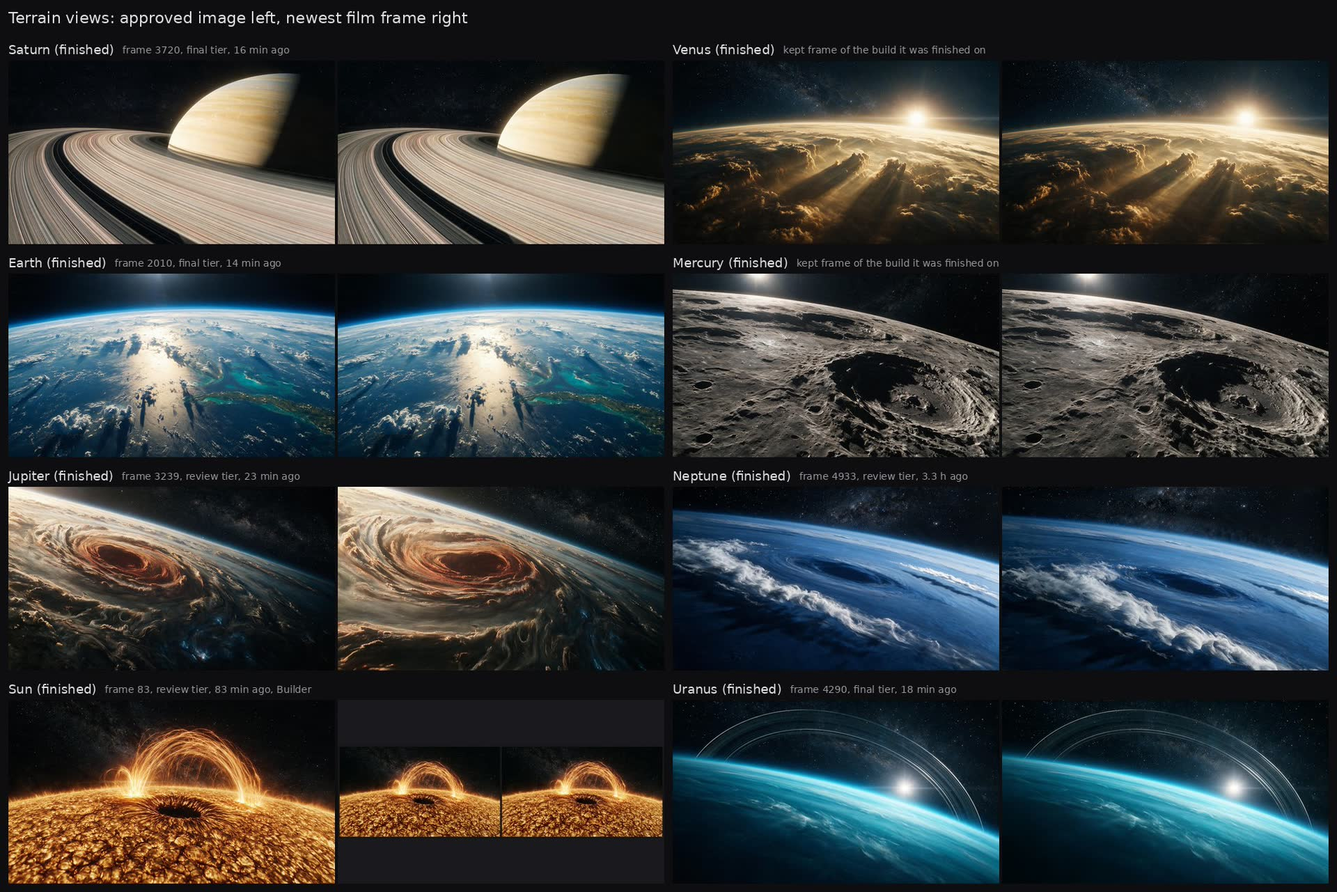
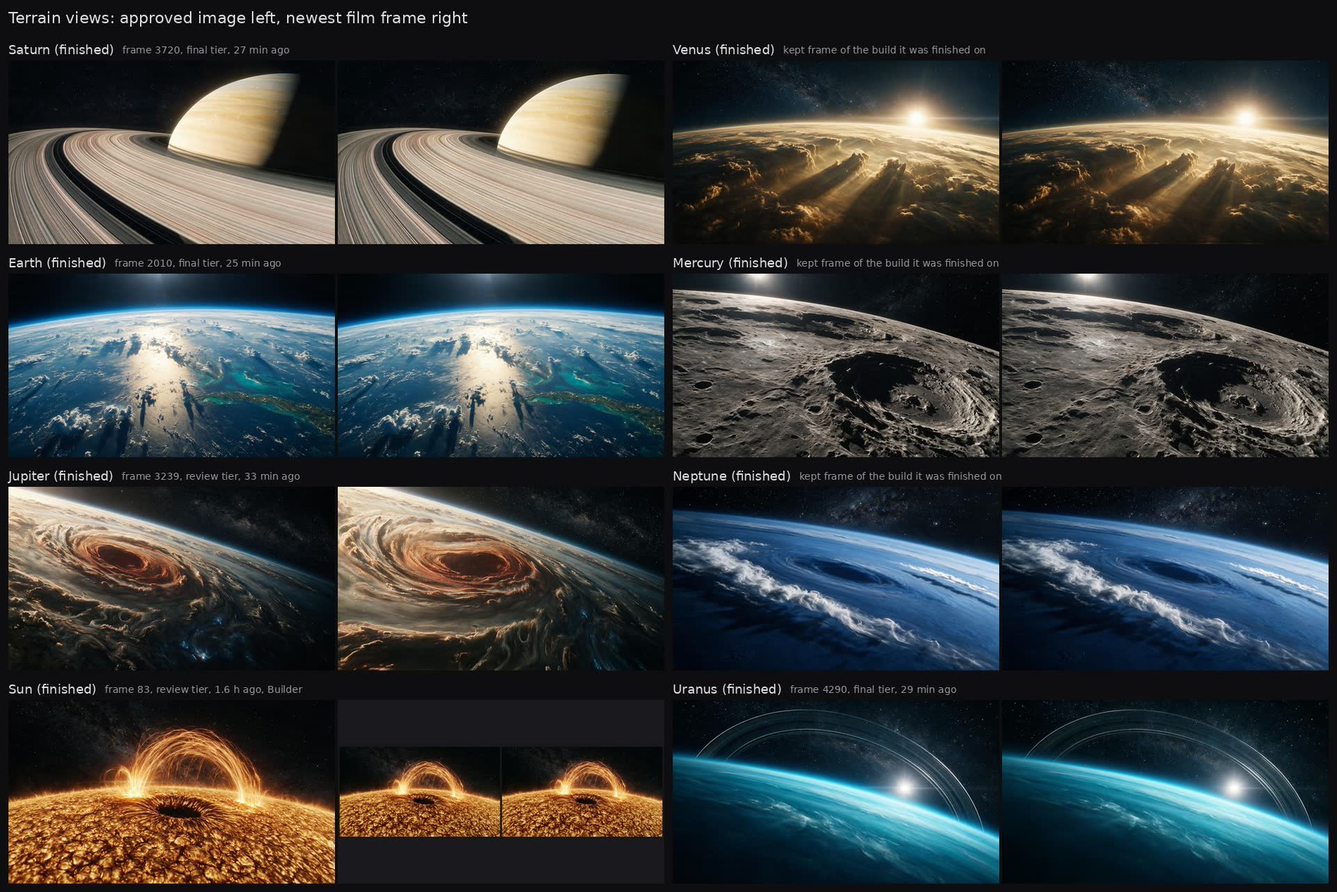
Status: Phase 6, polish round 33 (1 of 3) is closed with 95 answers: 13 severe a

Changed region(s): [[0.75, 0.5308, 1.0, 0.7494], [0.5938, 0.5308, 0.75, 0.5621], [0.1875, 0.7494, 0.2188, 0.7806]]

diff --git a/kit/PROGRESS.md b/kit/PROGRESS.md
@@ -5,8 +5,8 @@ The Builder's memory. Read this first in every task. Update it before every comm
 ## Status
 
 - Current phase: 6 · Polish and deliver
-- Current stop: none. All nine stops are finished (Phase 4 gate, 00:52 UTC on 2026-11-22). Phase 5 is done: its three whole film rounds 30, 31 and 32 ran to the limit of three, round 32 closed at 11:55 UTC and its build is kept as the best of the three (main 4365a0f0, engine hash be043ade04a7ab6e: R5 7, R6 6, R7 6, R2 pass, R3 4, R4 6; 1 severe and 21 major, written under open items 79 to 100), and the Phase 5 gate held at 12:23 UTC with the preview film of that build in `out/preview.mp4`. Phase 6 step 1 runs: three polish rounds (33, 34, 35) on the open items, worst first, each judged only on the frames its batch touched. Round 33 was cut at 13:02 UTC and its critics leave in waves from about 14:20 UTC as its renders come back; the cut of round 34 is about 40 minutes after round 33 closes (about 16:15 UTC); then the freeze, the record round, the sandbox master, the nine clips, the nine posts and the gauntlet
-- Current round: open: 33 (polish). The next round is 34. Round numbers are global; rounds of different stops run at the same time, each written here when it starts
+- Current stop: none. All nine stops are finished (Phase 4 gate, 00:52 UTC on 2026-11-22). Phase 5 is done: its three whole film rounds 30, 31 and 32 ran to the limit of three, round 32 closed at 11:55 UTC and its build is kept as the best of the three (main 4365a0f0, engine hash be043ade04a7ab6e: R5 7, R6 6, R7 6, R2 pass, R3 4, R4 6; 1 severe and 21 major, written under open items 79 to 100), and the Phase 5 gate held at 12:23 UTC with the preview film of that build in `out/preview.mp4`. Phase 6 step 1 runs: three polish rounds (33, 34, 35) on the open items, worst first, each judged only on the frames its batch touched. Round 33 closed at 15:26 UTC with 95 answers (13 severe, 97 major; motion better at Jupiter, Saturn, Mercury, Neptune and the Sun, so its build is the base of round 34). Round 34 is cut at 16:20 UTC from the agents' offers, each proved before it lands; round 35 takes only small proven things and take outs; then the freeze, the record round, the sandbox master, the nine clips, the nine posts and the gauntlet
+- Current round: open: none. The next round is 34. Round numbers are global; rounds of different stops run at the same time, each written here when it starts
 - Next critic name: reviewer_1219
 - Blocked: no
 - App URL: https://grand-tour-film.pplx.app (review page: https://grand-tour-film.pplx.app/review.html). Visibility is set to Organization, so it asks for a sign-in. Site id 658cdf8a-abd6-46bd-a3ba-e37d5c3ba5a3. Private preview of the same build: https://www.perplexity.ai/computer/a/grand-tour-.DP5zrWnQuWx5hYYutNNyA
@@ -710,6 +710,23 @@ Round 5 left these open (open items 6 to 15 hold the critics' words). Each of th
 - 14:03 UTC, the R8 and R2 folders are packed in exactly one wave, so that every namer and juror sees the same file under the same name; the join of the waves refuses a folder or a key entry that differs between two waves. The controls of R2 and R8 are not judged again: `pack --controls-from 30` reuses the control votes of round 30, as rounds 31 and 32 did (kit: a control's votes are collected once per stop and reused).
 - 14:03 UTC, `neptune.travel` taken out of the list of film sheets in my wave helper: Neptune has no travel segment, the ending follows its rise.
 - 14:13 UTC, sheets of round 33 looked at beside the kept build as they arrive, none worse: Earth dive cover (the first frames 1879 to 1881 are now a full frame of cloud before the limb comes in at 1881, the end of the cover at 1887 to 1890 resolves into cloud cells where the kept build stayed smeared), Uranus rise cover (the kept build stayed in teal haze to 4416, the new one clears to the limb, the Sun point and the band of the sky by 4410), Neptune rise (limb at 4984 and 4990 before the whole globe, the kept build cut from blur to the globe), Neptune rise cover (no kept sheet; terrain, streaked cloud, limb), Jupiter dive cover (same picture, slightly less red in 3019 to 3021).
+- 2026-11-22 14:38 UTC, Phase 6 round 33, a critic's claim checked before it is acted on. The compression critic (part 3) wrote of `mars.dive` frame 2434 that the frame before the encode is blurred by motion and the encoded one is not. Measured at native size on the two stills of the stress run: PSNR 35.36 dB, mean Laplacian on the disc 8.755 before and 8.671 after, so both show the same blur and the pair is like for like. Not confirmed and not sent as a fix. What is real in the same card: the leftmost 25 columns of the encoded frame lose horizontal detail (mean horizontal gradient 1.92 in columns 0 to 25 against 2.89 in columns 25 to 50; before the encode 3.81 against 3.65). That is the stress encoder's own loss at the picture's edge; item 86 stays held, since Mars is approved and a gentler stress encode would lower the bar.
+- 2026-11-22 14:40 UTC, Phase 6 round 33, Mars. Its scores are R1 7 (the approved build had 7), R3 6 (5) and R4 5 (6), from critics of other families than round 5 had. Nothing in Mars's folders changed: the dive cover and terrain sheets are the kept build's bytes, the hold sheet differs in 0.07 percent of its pixels and the dive sheet in 0.06 percent, all of it sky. No addendum asks for a change to Mars, so no round is run on it and its words are logged under the open items. The moon's exit at 2408 to 2424 (item 14, a minor in round 5) is a severe in this critic's words.
+- 2026-11-22 14:43 UTC, Phase 6 round 33, the Sun's match score. R1 gave 6 (the finished Sun had 9) with two severe on the close image's lower right ("a different draw") and majors on a hot rim at the hold's lower limb. Measured on the final stills: the luminance correlation of the named tile (crop 1212,594) with the approved close image is 0.53 in the kept build of round 32 and 0.53 in round 33 (0.90 and 0.90 after a 15 px blur), the tile beside it 0.74 and 0.74; the hold's tile means are 84.0 approved, 83.9 kept, 83.8 round 33 and 136.1, 136.6, 136.5. Kept against round 33: 2.87 levels mean difference on frame 90 and 2.53 on frame 360. So the places the critic names are the same picture as the kept build, which round 24's critic passed at 9. The drop is a second reading of the same surface, not a change of round 33, and there is nothing to take out. The words went to the Sun agent and stand under a new open item.
+- 2026-11-22 14:44 UTC, Phase 6 round 33, Jupiter. R4 gave 9 with one minor (the finished stop had 5 with a major on the start of the dive). The dive trial 73e6756d (plunge power 8, lead 0.48) is not taken: the dive as merged drew no word, and a second change could only lose the 9. R1 gave 9 against the finished stop's 10: the hold 2895 changed by one key (`look.edge.low`, the south limb) and the cloud deck 3150 by fold detail in `deck-core.jpg`. By the rule of 12:28 both are taken out again for round 34 (the Jupiter agent's CUT34: 2895 back to the kept build's bytes, to be proved by the Builder's own hash; crop D mean difference to the approved image 3.591 kept, 4.468 round 33, 3.619 after the take out), and the motion work, the foreground tiers, Io's night fill and both covers stay.
+- 2026-11-22 14:44 UTC, Phase 6 round 33, R8 in a polish round. `pack --controls-from 30` skips the approved images, and round 30 (a whole film round) holds no R8 control votes, so `close` would have compared every stop with 0 of 0. The kit collects a control's votes once per stop, and each stop's R8 control was judged in its first stop round (3 Mars, 6 Uranus, 7 Mercury, 8 Jupiter, 9 Neptune, 10 Sun, 11 Earth, 12 Venus, 13 Saturn). The harness agent changed `close` to take them from there (`agent/harness-r8` a4ac1e71, merged 14:56 UTC; checked by the Builder: three control lines per stop, Mars's control named by 1 of 3, the other eight by 3 of 3). This overrides the note of 13:20 UTC that the controls would be judged again in round 33: they were not, and no approved image was shown to a juror in this round. All 27 namers of round 33 named their stop except one at Mars who wrote Phobos (2 of 3 against the control's 1 of 3).
+- 2026-11-22 14:45 UTC, Phase 6 round 33, the jury. Venus drew 4 of 10 votes for a film or game cinematic (hold b a d a d, terrain a d d d a) where the kept build drew 0 of 10; against the stop's own control share of 5 of 10 (round 12) and the allowed gap of 0.2 that passes. Saturn drew 1 of 10 (hold b b e d b, terrain b a e b b; the kept build 2 of 10, round 20's build 3 of 10) and fails against the stop's own control share of 5 of 10 (round 13), which counts as one major.
+- 2026-11-22 14:46 UTC, Phase 6 round 33, Saturn's surface score. R3 part 1 gave 4 (the finished stop had 7) with two severe: stars and sky showing through the B and A rings inside the planet's shadow, and the soft band of the sky beside crisp star points. Looked at by the Builder at native size (crop 1230,640 to 1830,1040 of frame 3465): the approved hero shows the same star points inside the shadowed rings, and the kept build and round 33 are alike there (crop means 42.28 approved, 42.38 kept, 42.70 round 33). So it is not a change of round 33 but a harder reading of what the approved image and the kept build have. Logged as open items with the critic's words; the Saturn agent and the flight sky agent have them. A ring that hides the sky by its optical depth is taken in round 34 only as a commit of its own and only if the hold loses nothing against the approved hero.
+- 2026-11-22 14:49 UTC, Phase 6 round 33, Earth's motion score is 4, as the finished stop had. Two of its three severe are items 54 and 55 in a new critic's words (the dive and the rise read as two moves across their covers). The third ("frame 1879 is already in full whiteout at peak brightness, so the sheet only shows exiting the dive cover and omits the consecutive frames entering the cover") is about what the cover sheet shows: the harness draws the twelve frames of the cover window (1879 to 1890), as the kit defines that sheet, and the frames before it are on the dive sheet. It is logged as it is and not sent as a fix; the sheet is not changed, since every stop's cover sheet is made by the same rule.
+- 2026-11-22 14:50 UTC, Phase 6 round 33, how the answers were read. The 46 JSON answers of the critics were taken from the files the critics attached; the 47 plain text answers of the jurors and namers were taken from the agents' own turn files, word for word. A copy typed by hand agreed with all 47 in its first 40 characters and is not used.
+- 2026-11-22 14:52 UTC, Phase 6, Neptune's arrival. The film motion critic marked a whip at 4502 to 4516. The Neptune agent measured it (the sky turns 4.2 degrees a frame over 4498 to 4530, Triton leaves the top of the frame at 4508 and comes back at 4512) and traced it to `arrive.swingDeg` -34 in Neptune's plan. Decision: swing 0 as one commit of its own for round 34, taken only if the sheets of `uranus.rise` after its cover and of `uranus.travel` are not worse, because it moves the sky behind Uranus from frame 4405 on (judged 4436 and 4492). The Uranus, travel and flight sky agents were told.
+- 2026-11-22 14:54 UTC, Phase 6, the cut of round 34 is 16:20 UTC (all eleven agents told; a `CUT34 <folder>` message by 16:15 UTC, one commit per separable change). No stop may come out of round 34 below its finished build on the match critic (Sun 9, Mercury 9, Venus 8, Earth 9, Jupiter 10, Saturn 6, Uranus 9, Neptune 7): whatever cost a point in round 33 is cured or taken out. Round 35, the last polish round, takes only small proven things and take outs, so that the build that is frozen has been judged as a whole at least once with nothing new in it.
+- 2026-11-22 15:01 UTC, after a compaction of the Builder's context the Builder read again from disk: `AGENTS.md`, the head and headings of this file, addenda 001 to 003 and their README, open items 1 to 100, `kit/05-ARCHITECTURE.md`, `kit/07-QUALITY-BAR.md`, `kit/09-QA-GAUNTLET.md` and the Phase 6 steps of `kit/08-BUILD-ORDER.md`.
+- 2026-11-22 15:26 UTC, after a compaction of the Builder's context the Builder read again from disk: `AGENTS.md`, the head and headings of this file, addenda 001 to 003 and their README, open items 1 to 100, `kit/05-ARCHITECTURE.md`, `kit/07-QUALITY-BAR.md`, `kit/09-QA-GAUNTLET.md` and the Phase 6 steps of `kit/08-BUILD-ORDER.md`.
+- 2026-11-22 15:26 UTC, Phase 6 round 33 closed with all 95 answers. The Sun's motion critic answered last (its rise cover sheet took 98 minutes on one worker): 7 with one major, the finished stop had 6. The major is item 52 again (the stop has no dive, because the film opens on the surface by the kit) with one part that is real work: "no terrain pass where the near ground and the horizon move against each other" over frames 0 to 179 (item 4, and the hook of item 84 from the motion side). Sent to the Sun agent (MAIL 177). The rise and its cover, two majors in round 24, drew no word.
+- 2026-11-22 15:32 UTC, Phase 6 round 33, which control votes a stop's jury is held to. `close` in a polish round compared each stop with the votes its two approved images drew in round 30 (the whole film collection: Saturn 2 of 10, Venus 4 of 10), so the tool's summary gives Saturn a pass with 1 of 10. The kit says a control's votes are collected once per stop and reused in later rounds of that stop, and that the whole film rounds collect them once more. A stop's jury in a polish round is a later round of that stop, so it is held to the stop's own collection (Saturn round 13: 5 of 10; Venus round 12: 5 of 10), as the name check is since 14:56 UTC. For Saturn that is also the harder of the two, and the Builder does not pick a collection by its result: Saturn's R2 fails in round 33 and counts as one major (13 severe and 97 major in all), Venus passes. The harness agent has the change (MAIL 176): per stop R2 controls from the stop's first round, the whole film R2 from round 30, and a second `close` that corrects the summary and the round's line. Until that is merged the summary of round 33 shows the comparison with round 30, and open item 108 holds the fail. The record round follows the same rule and shows no approved image to a juror again.
+- 2026-11-22 15:34 UTC, Phase 6, round 33 against the kept build of round 32, score by score (kept, then round 33; the critics are fresh agents of other families each time, so one point either way is reading and not picture). Motion: sun 6 to 7, mercury 4 to 6, venus 6 to 6, earth 4 to 4, mars 6 to 5 (the same bytes but for 0.06 percent of sky), jupiter 5 to 9, saturn 4 to 8, uranus 7 to 5, neptune 3 to 5, travels and ending 6 to 6. Match: sun 9 to 6 (measured: the named places are the kept build's picture), mercury 9 to 9, venus 8 to 9, earth 9 to 8, mars 7 to 7, jupiter 10 to 9, saturn 6 to 8, uranus 9 to 8, neptune 7 to 8. Surface: sun 5 to 6, mercury 7 to 5, venus 5 to 6, earth 6 to 7, mars 5 to 6, jupiter 7 to 5, saturn 7 to 4 (measured: the named place is the approved image's and the kept build's), uranus 4 to 6, neptune 6 to 6, travels and ending 4 to 6. Whole film 7 to 4, hook 6 to 5, compression 6 to 6. Severe: 1 on the whole film list of round 32, 13 over every list of round 33 (the kept build's stops carried 9 severe of their own from their stop rounds). Decision: round 33's build is the base of round 34. Its gains are in motion, which Brandon put first, and they are large (Jupiter by 4, Saturn by 4, Mercury and Neptune by 2); its losses are either measured to be the same picture read harder (the Sun's match, Saturn's surface, the whole film critic's Sun size at frames fitted to approved images) or small. What is a real loss is worked in round 34: Uranus's motion (7 to 5: the terrain view without depth, the rise that stops dead at 4434), the surface of Mercury and Jupiter (7 to 5 each), and whatever cost a point on the match critic at Jupiter, Earth and Uranus, by the rule of 14:54 UTC. Which build is kept as the best is decided from the rounds' cards when the three polish rounds are done, and the record round judges that build whole.
+- 2026-11-22 15:32 UTC, after another compaction of the Builder's context the Builder read again from disk, whole: `AGENTS.md`, the head and headings of this file, addenda 001 to 003 and their README, open items 1 to 108, `kit/05-ARCHITECTURE.md`, `kit/07-QUALITY-BAR.md`, `kit/09-QA-GAUNTLET.md` and the Phase 6 steps, gate and closing block of `kit/08-BUILD-ORDER.md`. Nothing in them changes the plan of 15:34 UTC. The copies of the round 33 packs kept for the waves (691 MB) were deleted after every answer was joined, to stay over `sandbox.minFreeDiskGb`.
 
 ## Open items
 
@@ -815,6 +832,14 @@ One entry per issue left open by a round limit: the stop, the frame, the critic 
 98. mars, Phobos, frames 2325 and 2427, R5 round 30, major: "Phobos sits in the foreground of the Mars hero, then is gone in the next frame at the same scale, lighting, and orientation. The stop does not keep one continuous body." Tried. Nothing: Mars is approved; in the film the dive arcs past Phobos, which leaves frame over the bottom edge before 2427. Held: a change would move approved Mars frames.
 99. mars, `mars.travel` judged frame 2782, the belt rock, R3 round 31, two majors: "parallel combed furrows run across the sunlit slope, and the grain looks stretched along the grade" and "the rock looks waxy and airbrushed, with soft rounded crater lips and a repeated dimple pattern" Round 32 has a minor left: "Fine surface detail forms short parallel streaks on the shadowed slope, giving the rock a stretched, brushed look compared with the distinct pits on the lit face." Tried. Batch 21: the rock rebuilt (craters with sharper lips and warped outlines in six sizes, isotropic relief, the cube sampled one mip sharper, a harder cast shadow, finer detail tiles) and its spin slowed by letting its attitude follow the camera turn. Next, Phase 6: the short parallel streaks on the shadowed slope (belt_builder), with the retimed travel of item 89.
 100. Whole film, minors of round 32 and smaller things seen by the Builder, all open. R5: "A saturated green band sits on Earth's day-side limb like an aurora. It reads as a colour fringe artifact and looks like nothing else in the grade." (the aurora of the approved Earth image, item 58); "Venus is graded much warmer and more golden than the rest of the film, so it sits slightly outside the shared look." (the approved Venus look); "The rings look like thin wire loops floating off the planet rather than lit, dusty rings." R6: "uniform high-contrast granulation fills over half the frame from edge to edge while the sunspot and coronal loop occupy a relatively small central zone, diluting immediate focal punch at phone width" and "from image-06.png through image-09.png the visual state plateaus with almost no perceptible change between frames at phone preview size, losing momentum mid-hook" R7: "The encoded half slightly flattens low-contrast crater and ridge texture near the shadow edge. The major landforms remain distinct, and there is no obvious contour banding."; "the haze between stars is a little smoothed and flatter, and faint colour variation in the dust lanes drops out. No hard blocking, and the large structure and bright stars hold up"; on 2434 the critic also wrote that the two halves of the picture do not match like a source and its encode (each half shows another part of the frame, one inside the dive's blur). R3 at 495: "a bright white Fresnel-like rim ring outlines the circular edge of the sphere before dropping into the darker amber corona instead of showing smooth limb darkening"; "one bright sky object renders as a soft ~15 px diffuse Gaussian blob while surrounding stars are sharp 1-3 px points"; "two isolated reddish-orange parallel double-line streaks float detached in dark space amidst the stars" R3 at 3352: "A handful of bright stars read as soft white or colored blobs beside the sharper faint points." R4, jupiter.travel 3362: "a short reddish diagonal streak appears for one sample and is gone in the frames on either side" (Titan under the shutter; `agent/travel-polish` has the cure as the steady law). R5 round 30, minor: "The first two full-Sun holds are the same disk at the same size. The shrink the journey depends on does not even start." Seen by the Builder and not named by a critic in round 32: Triton as a streak at 4502 (cured on `agent/travel-polish` job 4); the growing body streaked by the shutter while the camera goes round it (2188, 2228, 4508); the Sun entering uranus.travel only at 4511; the band crossing the frame fast at 4489 to 4502; frame 495 differs between two runs of the same build in 635 scattered star pixels (28 by more than 2 levels, at most 7), found in the proof of batch 22. Next, Phase 6 after the majors: each sent to its agent with these words.
+101. sun, `sun.terrain`, frame 90, the lower right photosphere, R1 round 33 (score 6), two severe and one major: "the convection pattern is a different draw, not a small shift of the same cells. Luminance correlation there is about 0.1, and a 15px blur only brings it to about 0.55. Cells in the approved frame are sheared along the diagonal; the candidate's cells do not sit on those lanes. The far right is also a little darker."; "native crop of that same lower-right surface. Correlation is 0.53, and even a 15px blur only reaches 0.72, so the cell layout itself does not match. Detail amount is not the problem; placement is."; "the surface just left of that corner still diverges. Full correlation is 0.74 and 15px correlation is 0.89, so granule and penumbral lanes are not the same structures, only the same kind of texture." Two majors on the hold 360 in the same card: "a hotter, harder bright rim sits on the disk edge. The lower limb ring is about 15 to 20 lum hotter than the approved frame, and the left limb ring is about 10 lum hotter. The approved edge blends into the spicules. The corona outside that rim is close." and "the same hard bright rim shows in the native crops of the lower limb. Prominences sit in the right place; the edge between disk and spicules does not." Measured by the Builder on the final stills: the luminance correlation of tile E (crop 1212,594) with the approved close image is 0.53 in the kept build of round 32 and 0.53 in round 33 (0.90 and 0.90 after a 15 px blur), tile F 0.74 and 0.74; the hold's tile means are 84.0 approved, 83.9 kept, 83.8 round 33 (tile D) and 136.1, 136.6, 136.5 (tile F). So round 33 changed nothing in these places; the finished Sun (round 24) had R1 9 from another critic on the same surface. Tried: nothing aimed at it before the round. Next: the Sun agent has the words (MAIL 169); a refit of the near cells to the approved lanes only if frames 0, 60 and 90 lose nothing with the surface critic (items 46 and 47).
+102. saturn, the rings inside the planet's shadow, `saturn.hold` frame 3465 and `saturn.dive` frame 3567, R3 round 33 part 1 (score 4), severe: "background stars and blurry orange skybox nebula patches shine undimmed straight through the optically thick B and A rings inside Saturn's shadow" Looked at by the Builder at native size (crop 1230,640 to 1830,1040 of frame 3465): the approved hero shows the same star points inside the shadowed rings, and the kept build of round 32 and round 33 are alike there (crop means 42.28 approved, 42.38 kept, 42.70 round 33). Not a change of round 33; the kept build's critic (round 26) did not name it. Tried: nothing before the round. Next: the Saturn agent was asked (MAIL 170) for an unlit ring that hides the sky by its optical depth as a commit of its own, taken only if the hold loses nothing against the approved hero.
+103. saturn, the sky behind the rings, `saturn.dive` frame 3567 with the hold 3465 and the rise 3866, R3 round 33 part 1, severe: "the Milky Way skybox is low-resolution, stretched, and blurry, turning stars and clusters into large smeared orange-white blobs right beside crisp 1-pixel procedural star dots" The same reading as items 59 and 93 (soft band with baked star blobs beside crisp points), now severe on a stop. Tried: as item 93. Next: with the flight sky agent's jobs for round 34 (MAIL 170).
+104. neptune, `neptune.rise`, frames 4984 to 5004, R4 round 33 (score 5; the finished stop had 3), severe: "the camera stalls near the limb from 4984 to 4990 while planet exposure and a bright orange nebula pop in, then whips backward violently between 4990 and 5004 as the orange nebula vanishes into a cold dark starfield and a hard night-side shadow appears across the lower half of the globe that was sunlit in 4990" Item 18 in this critic's words, severe again: "the cloud cover slams in over two frames (4975-4977) and pops off to black space in a single frame (4982-4983), while the flat forward-moving terrain horizon in 4975 jumps to a strongly arched backward-moving globe limb in 4981-4983 and a warm orange starfield begins fading into empty black space in 4984-4986" Tried. Round 33: the limb comes in at 4984 and 4990 before the whole globe (the kept build cut from blur to the globe), which this critic reads as a stall and a whip. Next: one eased pull back over 4984 to 5004 before anything on the cover (MAIL 172).
+105. earth, `earth.dive` frames 1862 to 1895 and `earth.rise` frames 2113 to 2147, R4 round 33 (score 4, as the finished stop), two severe, items 54 and 55 in this critic's words: "camera direction, horizon, and sun angle jump across the cover: 1862-1870 plunges perpendicular into the center of a left-lit globe with no top horizon, while 1887-1895 emerges flying tangentially below a curved top horizon toward a top-center sun" and "entering the cover (2113-2127) pushes forward and drives the curved horizon up off the top edge instead of pulling out, then cuts across the cover to a perpendicular pullback from a centered left-lit globe (2140-2147)" A third severe in the same card is about the sheet, not the picture: "frame 1879 is already in full whiteout at peak brightness, so the sheet only shows exiting the dive cover and omits the consecutive frames entering the cover" The cover sheet shows the twelve frames of the cover window (1879 to 1890) as the kit defines it; the frames before it are on the dive sheet. Tried. Round 33: the cloud comes in over the globe from 1870 and the first cover frames are a full frame of cloud before the limb comes in at 1881. Next: the Earth agent's second take and its answer to these words (MAIL 171).
+106. mars, `mars.dive`, frames 2408 to 2424, R4 round 33 (score 5; the approved build had 6 in round 5), severe: "the moon nearly doubles in size and drops to the bottom edge in 8 frames, then is gone by 2424, while the planet barely changes scale. It reads as a pop and a jump in camera position, not a smooth pass" Item 14 held the same move as a minor of round 5. Mars is approved and no addendum asks for a change: its folders are untouched, the dive cover and terrain sheets are the kept build's bytes and the dive sheet differs from it in 0.06 percent of its pixels, all sky. Tried: nothing, by the rule. Next: nothing unless Brandon asks.
+107. Whole film, R5 round 33 (score 4; round 32 had 7 from another critic), three severe. New: "the Sun does not shrink consistently from stop to stop; at Uranus (4290) and Neptune (4605) it still blazes as a wide solar orb comparable to Venus (1440) and larger than on Mercury's horizon (870)" Frames 4290 and 4605 are fitted to their approved images, which show the Sun at that size; a smaller Sun there would cost the match critic. Item 81 in this critic's words: "sunlight direction and intensity break continuity across and within stops: lighting flips from right-lit at Mercury (615) to left-lit at Venus-Uranus (1185-4035) and back to right-lit at Neptune (4605), flips 180 degrees mid-stop on Venus (1185 vs 1440-1586) and Neptune (4605 vs 5006), and leaves outer ice giants (4035, 4605) brighter than Mercury (615) and Mars (2325)" Items 1 and 80 in this critic's words: "every planet repeats the exact same five-beat camera template and dead-center ~75%-height portrait framing regardless of real scale, then snaps backward from low-orbit skims to wide full-globe views (such as 870 to 1016 and 2010 to 2156) before cutting to empty stars, breaking forward motion" Tried: as items 1, 80, 81 and 82; the timings come from `segments` and the framing of each hold from its approved hero. Next: nothing that moves a hold or a terrain frame; the ending and the sky between the stops are in work for round 34.
+108. saturn, R2 round 33, fail (counts as one major), item 44 again: the judged hold and terrain frames drew 1 of 10 votes for "film or game cinematic" (hold b b e d b, terrain b a e b b); the kept build drew 2 of 10 and round 20's build 3 of 10. The stop's own control votes, collected once in round 13, are 5 of 10, so 3 of 10 would pass. The same two approved images drew 2 of 10 when the whole film rounds collected them once more (round 30), and against that the frames would pass; the kit reuses a stop's own collection in the later rounds of that stop, so the fail stands (decision of 15:32 UTC). Jurors on the hold: "the solid, vinyl-like radial bump-mapped rings and domain-warped FBM procedural noise bands on Saturn" and "the planet looks like a hemisphere sitting on the rings, the rings cast no shadow on the planet, and the ring detail is stylized"; on the terrain view: "a flat 1D radial-noise ring plane exhibiting pixel-level sampling/aliasing grain, semi-transparent analytical plane intersection at the planet's base". Tried: nothing aimed at the jury in round 33, whose batch worked the motion of the stop (R4 4 to 8). Next: the grain of the rings and their meeting with the globe (items 39, 40 and 42) in round 34, then the jury again in the record round.
 
 ## Running jobs
 
@@ -847,7 +872,6 @@ Phase 4 supporting agents, started 2026-11-21 about 02:42 UTC, each on its own V
 
 No render job runs on the Builder's VM.
 
-- Round 33 (polish 1 of 3), handed out 13:32 UTC on 2026-11-22: 77 jobs on render_01 to render_40 at commit 84b0ea4a (engine hash f92fd0ddfc332543): twelve groups of judged stills at the final tier, ten groups of whole film motion sheets, three stress encodes, and for each of the nine stops the measures, its two views and its dive, rise and cover sheets. The plan and the messages are in `out/work/rounds/round-033/` (`jobs.json`, `dispatch.json`). Estimated end of the longest job (the Sun's rise cover, 97 minutes) about 15:10 UTC, of 31 workers before 14:25. Returns are placed with `python3 tools/round.py place --round 33`. The first hand out reached 25 workers whole and one cut in the middle (a tool call returned the list shortened); render_17 got a correction and render_18 to render_31 their messages two minutes later.
 
 ## Rounds
 
@@ -885,7 +909,7 @@ One line per round, written when the round starts: number, phase, stop. Scores a
 - Round 30, Phase 5, whole film, round 1 of 3. Started 2026-11-22 04:39 UTC. Judged on main at 2621f00. R5 5, R6 7, R7 8, R2 pass, R3 4, R4 5. 3 severe, 21 major. Next: Round 31 takes the causes the critics named, each proved on workers before it lands: dust motes drawn as fine sharp grains with no soft ovals and no streaks; a star free band map for the flight sky with every star drawn as a point, and each travel's band faded in across the turn so it sweeps in and never switches; every travel turn and the retreat's swing spread over more frames and eased so no body whips and no body smears beside sharp stars; one Sun through sun.travel with one look and one continuous path; the belt's hero rock rebuilt finer and its near streak made a smooth blur; no points showing through Neptune's dark disk and one limb glow in the lookback; a pulse that runs along the arch inside the hook; what the stress encode drops on stars looked at and cured in the picture; the Sun's size and glare per stop put in view inside each travel. What stays as the kit has it (the five segment stop, the approved hero framings, exposure per stop, the Sun's side per stop) goes to Open items with R5's words. `scorecards/round-030/`.
 - Round 31, Phase 5, whole film, round 2 of 3. Started 2026-11-22 08:02 UTC. Judged on main at 07aabf5. R5 7, R6 6, R7 8, R2 pass, R3 6, R4 5. 5 severe, 17 major. Next: Round 32, the last whole film round, runs on engine batch 21: the travels' arrivals pinned to the hold pose and the departures eased so no body is thrown out of frame from rest (travel_builder); Mercury growing along one curve in sun.travel; the hook's loop erupting and swelling so frame 60 is another picture at phone width, and one Sun through the leave whose exposure rises to Mercury's plate (sun_builder, mercury_builder); the belt rock's surface and spin (belt_builder); Neptune's rings, day side and the lookback's disc (neptune_builder); the lookback eased to rest with sky and limb moving as one (ending_builder); the band's straight lower edge, the mirror seam beside Mars and the sky's fades in sun.travel (sky_builder); the export's warm up frames (intro_builder). The ghost copies the motion critic named were checked on finals of 482, 490, 2182, 2236, 2806, 3892 and 3946 at native size: each shows one continuous blur (77 to 142 samples at steps of 0.6 px or less), so the sample counts stay and the departures' top speed comes down instead. The whole film critic's items on key side, exposure, centring, each hold's own sky and the Sun's size between the stops stay held for the Open items, because they would move approved hero frames. . `scorecards/round-031/`.
 - Round 32, Phase 5, whole film, round 3 of 3. Started 2026-11-22 10:41 UTC. Judged on main at 4365a0f. R5 7, R6 6, R7 6, R2 pass, R3 4, R4 6. 1 severe, 21 major. Closed 11:55 UTC. Next: The limit of three whole film rounds is reached with this round, so no fourth round runs. The best build is this round's (main 4365a0f, engine batches 21 and 22): 1 severe against 5 in round 31 and 3 in round 30, R4 6 against 5 and 5, R2 passes, and the ghost copies and thrown bodies that drew round 31's severes are not reported again. The one severe names frame 1072, the judged frame of mercury.travel, which shows open sky by design between Mercury and Venus; the critic expected a body in it. It is kept as an open severe with its words. Every severe and major of this round, and the items of rounds 30 and 31 that were held because they would move approved hero frames, are written under "Open items" in `kit/PROGRESS.md` from number 79 with what was tried. Phase 5 step 9 follows from this build: the preview film (5400 frames, joined from the workers' spans), keep, review, publish and the gate. Phase 6 takes the open items worst first inside its three polish rounds: a body in view in every judged travel frame and the arrival at Jupiter and the Sun's exposure step at 482 (travel_builder), the band's edge, cloud puffs, lanes and soft map in the flight sky (sky_builder), the lookback's rings, limb and night side and the retreat's cloud deck (neptune_builder), the hook's opening, the dark frames under the stress encode, and the stops' own polish branches. `scorecards/round-032/`.
-- Round 33, Phase 6, polish, round 1 of 3. Started 2026-11-22 12:55 UTC.
+- Round 33, Phase 6, polish, round 1 of 3. Started 2026-11-22 12:55 UTC. Judged on main at 84b0ea4, only what the batch touched. R1 sun 6, R3 sun 6, R4 sun 7, R1 mercury 9, R3 mercury 5, R4 mercury 6, R1 venus 9, R3 venus 6, R4 venus 6, R1 earth 8, R3 earth 7, R4 earth 4, R1 mars 7, R3 mars 6, R4 mars 5, R1 jupiter 9, R3 jupiter 5, R4 jupiter 9, R1 saturn 8, R3 saturn 4, R4 saturn 8, R1 uranus 8, R3 uranus 6, R4 uranus 5, R1 neptune 8, R3 neptune 6, R4 neptune 5, R5 4, R6 5, R7 6, R3 whole film 6, R4 whole film 6, R2 venus pass, R2 saturn fail (held to the stop's own control votes of round 13, decision of 15:32 UTC; the summary written by the tool compares with round 30's and shows a pass until the tool is corrected), R8 sun pass, R8 mercury pass, R8 venus pass, R8 earth pass, R8 mars pass, R8 jupiter pass, R8 saturn pass, R8 uranus pass, R8 neptune pass. 13 severe, 97 major. Closed 15:26 UTC. Next: Round 34 (polish 2 of 3) is cut at 16:20 UTC on the round 33 build, whose motion scores are the better ones (Jupiter 5 to 9, Saturn 4 to 8, Mercury 4 to 6, Neptune 3 to 5, Sun 6 to 7). It takes out what cost the match with the approved pictures at Jupiter (the fold texture on the deck and the edge term), and works the severe issues of this round worst first: the three of the whole film critic (the wide Sun at Uranus and Neptune, the look alike travel frames, the dark ending), the near surface of the Sun at frame 90, the shadowed rings and the sky of Saturn, the rise of Neptune (one eased pull back over 4984 to 5004), the dive and the rise of Earth as one move each. With them: the sky band with lanes and a tight far Sun, the ending of Neptune with a wider crescent and belts on the night side, the hook of the Sun. Mars stays untouched. `scorecards/round-033/`.
 
 ## Final scores
 
@@ -1088,3 +1112,4 @@ One entry per task: when it started, what it did, where it stopped.
   - Status, 2026-11-22 14:47 UTC. Phase 6, polish round 33 (1 of 3): 91 of about 95 critics have answered. Motion: Jupiter 9 (the kept build had 5), Saturn 8 (was 4), Mercury 6 (was 4), Venus 6 (same), Neptune 5, Uranus 5. Match with the approved pictures: Mercury, Venus and Jupiter 9, Earth, Uranus, Neptune and Saturn 8, the Sun 6. The blind jury called Venus a film frame 4 times of 10 (0 of 10 before) and Saturn 1 time of 10. All nine stops were named correctly. Two low scores, the match of the Sun (6) and the surface of Saturn (4), mark pixels that are the same in the kept build, measured. Next: the last cover sheet of the Sun (about 15:10 UTC) and its motion critic, then round 33 closes and each stop is compared with the kept build. Round 34 is cut at about 16:20 UTC with the answers of every agent to the words of this round, which all went out by 14:47 UTC. Pictures shown inline (status 106, shown 14:48 UTC): Saturn's ring skim, kept build beside round 33 (the smeared corner is gone, motion 8); Jupiter's dive, kept beside round 33 (motion 9); Mercury's rise cover, kept beside round 33 (the Sun stays through the cover, motion 6); Saturn's shadowed rings at native size, approved, kept and round 33 (the stars a surface critic marked are in the approved picture and in the kept build)
   - Status, 2026-11-22 14:59 UTC. Phase 6, polish round 33 (1 of 3): 94 of 95 critics have answered; the motion critic of the Sun follows when its last cover sheet is in (about 15:10 UTC). Earth scored 4 on motion, as the kept build did: the dive and the rise still read as two moves across their covers. The second surface critic of Saturn gave 7 and marks the hard edge of the shadow of the planet on the rings. The tool fix for the name check is merged, so each stop is compared with the votes of its own first round. Next: round 33 closes at about 15:40 UTC and each stop is compared with the kept build. Round 34 is cut at 16:20 UTC; all eleven agents know the time. On offer so far: the ending at Neptune with a wider crescent and belts on the night side, the arrival at Neptune without the whip of the sky, and Jupiter takes out the two changes that cost its match with the approved picture while keeping the motion work (5 to 9). Pictures shown inline (status 107, shown 15:00 UTC): Earth dive, kept build beside round 33; Neptune look back 5235 and retreat 5085, round 33 beside the offer for round 34; Jupiter deck 3150 at native size, approved, kept, round 33
   - Status, 2026-11-22 15:25 UTC. Phase 6, polish round 33 (1 of 3): all 95 critics have answered. The motion critic of the Sun gave 7 (the kept build had 6) with one major: the stop opens on the surface, so it has no dive of its own. The round is being closed and each stop is compared with the kept build of round 32. Next: round 34 is cut at 16:20 UTC. The first offer for it is in: the sky agent has the band of the galaxy with lanes and filaments in place of soft puffs, a tight far Sun in the last look back and tighter bright stars. Its pictures are looked at beside round 33 before anything is merged. Pictures shown inline (status 108, shown 15:25 UTC): the cover of the rise at the Sun (211 to 222), the rise at Neptune beside the kept build, and two pictures of the sky offer for round 34 (4492 and 5235, round 33 over the offer)
+  - Status, 2026-11-22 15:36 UTC. Phase 6, polish round 33 (1 of 3) is closed with 95 answers: 13 severe and 97 major. Motion scores against the kept build: Jupiter 5 to 9, Saturn 4 to 8, Mercury 4 to 6, Neptune 3 to 5, the Sun 6 to 7; Uranus fell from 7 to 5 and Earth stays at 4. The round 33 build is the base of round 34. Next: round 34 is cut at 16:20 UTC from the offers of the agents (the sky, the ending at Neptune, the rise at Uranus, the covers at Earth, the rings of Saturn, the belt), each proved and looked at beside round 33 before it lands. Then round 35, the freeze, the record round, the master, the clips and the posts. Pictures shown inline: Orbit views: approved image left, newest film frame right. Left column, top to bottom: Saturn, Earth, Jupiter, Sun. Right column: Venus, Mercury, Neptune, Uranus. (`out/stills/status/board-orbit.jpg`); Terrain views: approved image left, newest film frame right. Left column, top to bottom: Saturn, Earth, Jupiter, Sun. Right column: Venus, Mercury, Neptune, Uranus. (`out/stills/status/board-terrain.jpg`); Uranus, the rise, frames 4380 to 4454: kept build left, round 33 right. (`out/stills/status/extra-pair-uranus-rise.jpg`); Sun: mercury.travel Sun at the corner, review, main above the fix: 1056 1060 1064 1068 (from the supporting agent building it, 13 min ago) (`out/stills/status/sun-look-1.jpg`).
